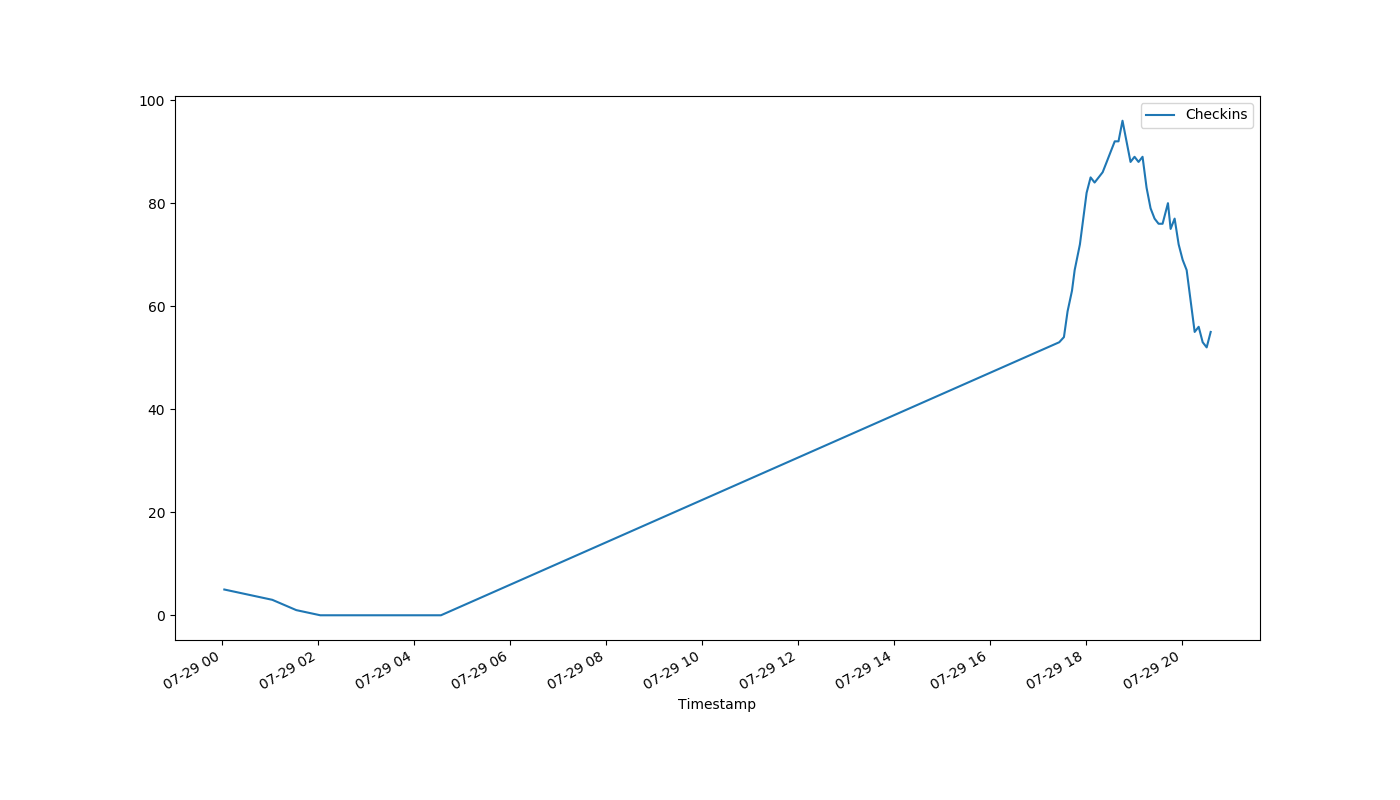
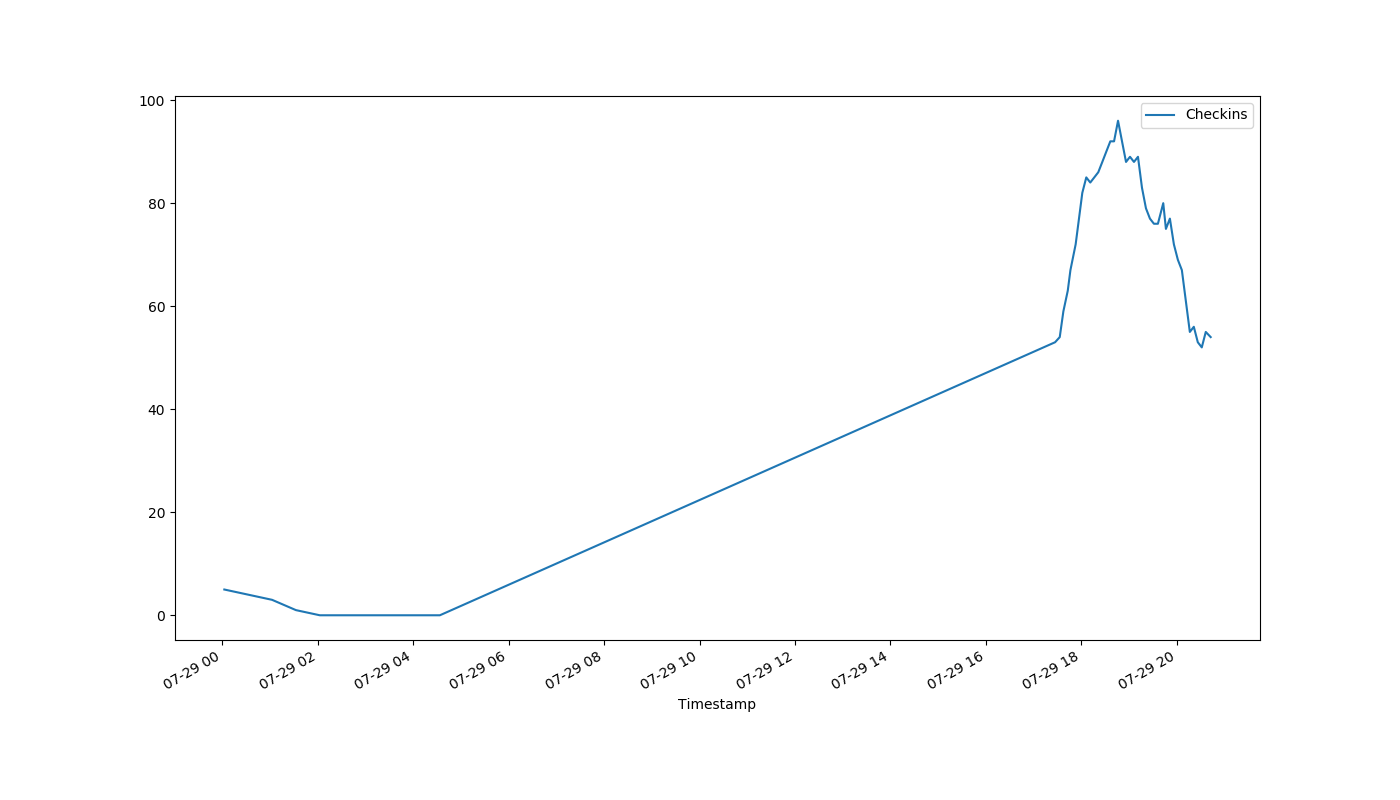
auto-Jul-29-20:44:41

diff --git a/index.html b/index.html
@@ -1,1 +1,1 @@
-<!DOCTYPE html><html><head><meta http-equiv="refresh" content="30"><link rel='stylesheet' href='holmcurrent.css'></head><body><p id='count'>55</p><div id='graph-wrap'><img id='graph' src='holmgraph-Jul-29.png'></div><p id='updated'>Last updated 20:37:06 / 20:36:17</p></body></html>
+<!DOCTYPE html><html><head><meta http-equiv="refresh" content="30"><link rel='stylesheet' href='holmcurrent.css'></head><body><p id='count'>54</p><div id='graph-wrap'><img id='graph' src='holmgraph-Jul-29.png'></div><p id='updated'>Last updated 20:43:06 / 20:42:28</p></body></html>
